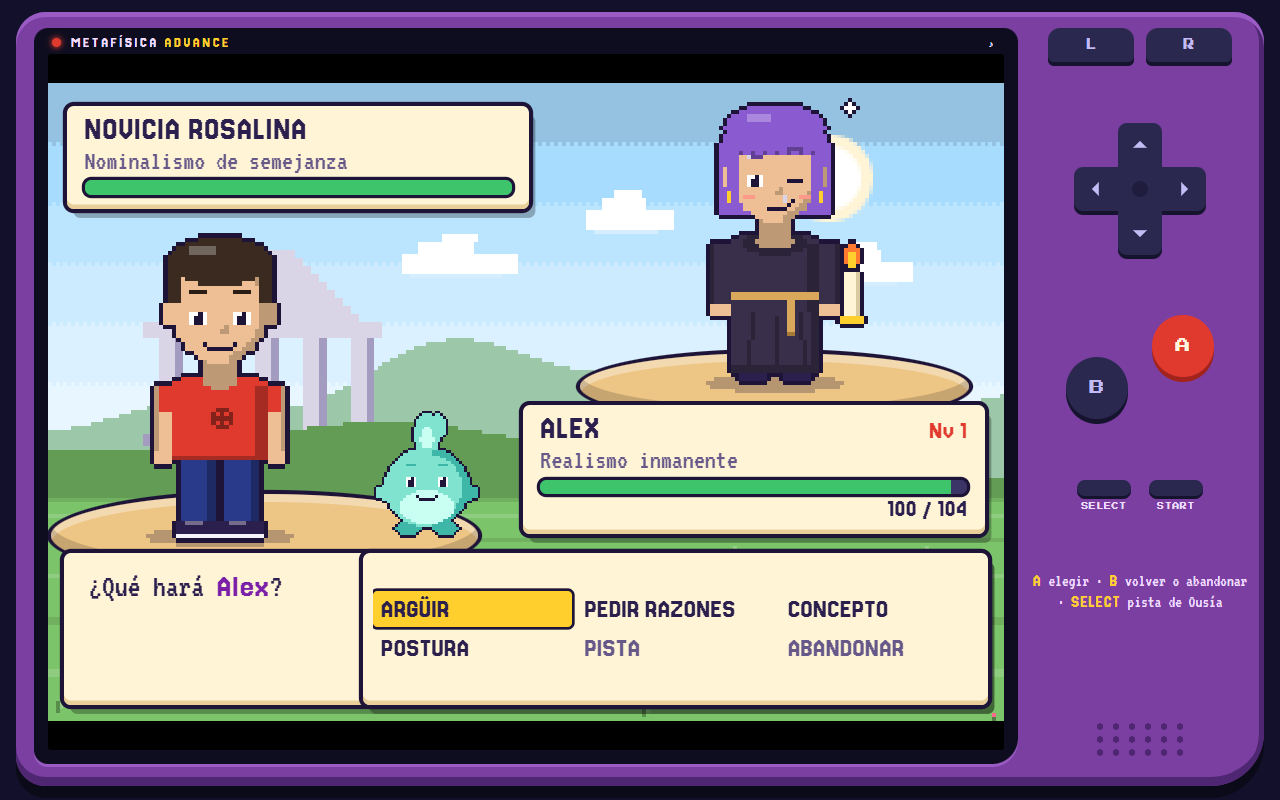
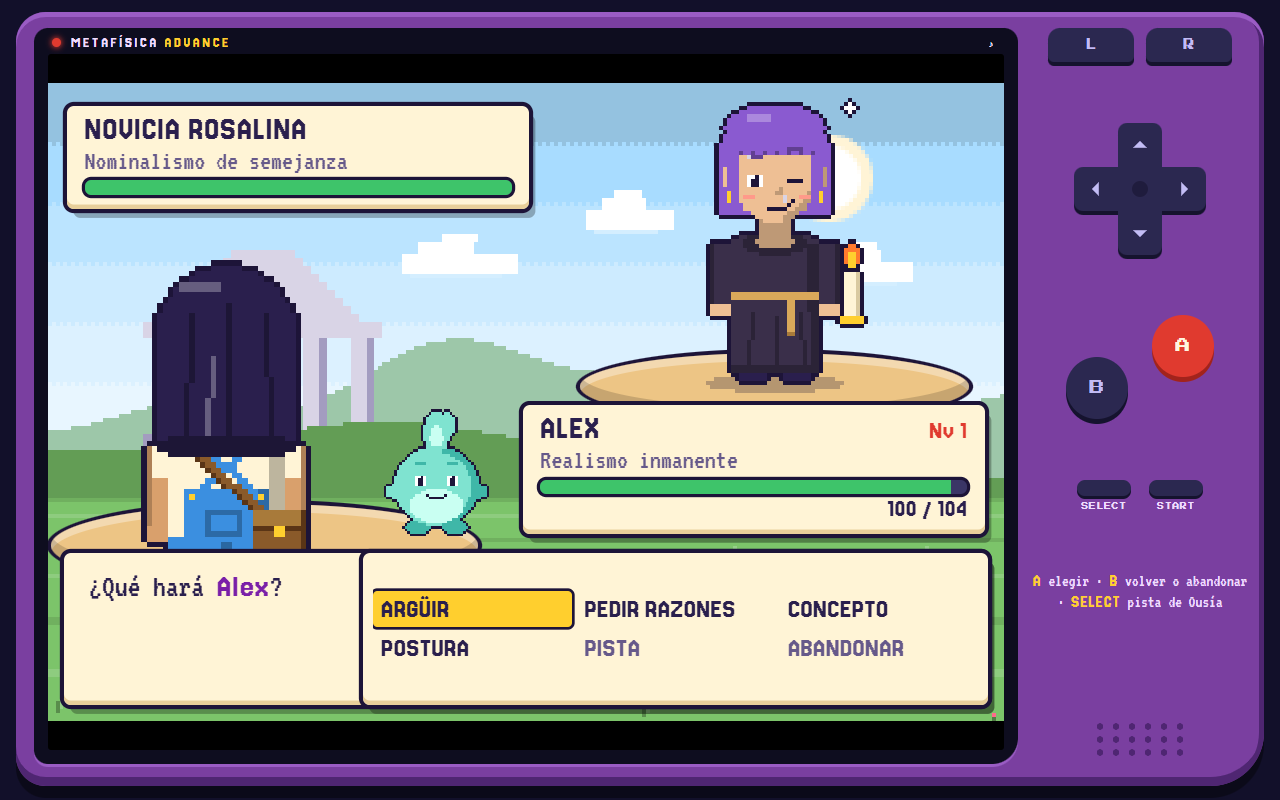
En las disputas, quien juega se ve de espaldas y a medio cuerpo

Changed region(s): [[0.0312, 0.2812, 0.4062, 0.7188]]

diff --git a/index.html b/index.html
@@ -197,12 +197,12 @@ img.idea { flex: none; width: 1.45em; height: 1.45em; }
 .battle .sky { position: absolute; inset: 0; background-color: color-mix(in srgb, var(--kc) 30%, #fff4d6); background-size: cover; background-position: 50% 62%; image-rendering: pixelated; }
 .plat { position: absolute; border-radius: 50%; background: color-mix(in srgb, var(--kc) 62%, #fff); box-shadow: 0 0 0 .13em var(--line), inset 0 -.4em 0 0 rgba(0, 0, 0, .16), inset 0 .25em 0 0 rgba(255, 255, 255, .35); }
 .pf { right: 1.1em; top: 8.45em; width: 12.2em; height: 2.1em; }
-.pm { left: .1em; bottom: 4.5em; width: 13.4em; height: 2.6em; }
+.pm { left: .1em; bottom: 4.2em; width: 13.4em; height: 2.6em; }
 .fig { position: absolute; }
 .fig canvas, .fig img { display: block; width: 100%; height: auto; }
 .foe { right: 3.4em; top: .1em; width: 7.6em; animation: in-r .5s steps(8) both; }
-.me { left: 1.3em; bottom: 5.45em; width: 8.2em; animation: in-l .5s steps(8) both; }
-.ou { left: 9.9em; bottom: 5.7em; width: 4em; animation: in-l .7s steps(8) both, bob 1.2s .7s steps(2) infinite; }
+.me { left: 1.6em; bottom: 5.1em; width: 8em; animation: in-l .5s steps(8) both; }
+.ou { left: 10.2em; bottom: 5.7em; width: 4em; animation: in-l .7s steps(8) both, bob 1.2s .7s steps(2) infinite; }
 .wild .foe { right: 4.6em; top: 1.3em; width: 6em; }
 .wild .fbox .bar { display: none; }
 .wild .foe img { width: 100%; height: auto; animation: hop .7s steps(3) infinite; }
@@ -286,14 +286,14 @@ img.idea { flex: none; width: 1.45em; height: 1.45em; }
 .tall .foe { right: 1em; top: 5.3em; width: 7.4em; }
 .tall .pf { right: .1em; top: 13.4em; width: 10em; height: 1.9em; }
 .tall .wild .foe { right: 2.6em; top: 7.4em; width: 5.6em; }
-.tall .mbox { right: .5em; bottom: 6.85em; width: 13.5em; }
-.tall .me { left: .4em; bottom: 10.9em; width: 7.4em; }
-.tall .ou { left: 7.9em; bottom: 11em; width: 3.4em; }
-.tall .pm { left: 0; bottom: 10.2em; width: 12em; height: 2em; }
+.tall .mbox { right: .5em; bottom: 6.85em; width: 10.6em; }
+.tall .me { left: .5em; bottom: 6.2em; width: 7.8em; }
+.tall .ou { left: 9.4em; bottom: 10.9em; width: 3.4em; }
+.tall .pm { left: 0; bottom: 5.4em; width: 10.4em; height: 2.4em; }
 .tall .shot.to-foe { animation-name: tofoe-t; }
 .tall .shot.to-me { animation-name: tome-t; }
-@keyframes tofoe-t { from { left: 6em; bottom: 15em; transform: scale(.6); } to { left: 13em; bottom: 21em; transform: scale(1.3) rotate(360deg); } }
-@keyframes tome-t { from { left: 13em; bottom: 21em; transform: scale(.6); } to { left: 3.5em; bottom: 15em; transform: scale(1.3) rotate(-360deg); } }
+@keyframes tofoe-t { from { left: 6em; bottom: 13em; transform: scale(.6); } to { left: 13em; bottom: 21em; transform: scale(1.3) rotate(360deg); } }
+@keyframes tome-t { from { left: 13em; bottom: 21em; transform: scale(.6); } to { left: 3.5em; bottom: 11em; transform: scale(1.3) rotate(-360deg); } }
 .tall .vs { flex-direction: column; gap: .1em; background: linear-gradient(172deg, #33479e 0 49%, #1d1438 49% 51%, #b0362f 51% 100%); }
 .tall .vs > div { width: 18em; }
 .tall .vs .pimg { width: 7em; height: 7em; }
@@ -1458,6 +1458,96 @@ function person(p, emo, full) {
   if (p.prop && PROPS[p.prop]) PROPS[p.prop](W, hand[0] + 6 + 2, hand[1]);
   return W.outline(INK).under(30, 73.6, 17, 2.3, SHADOW);
 }
+/* quien juega, en las disputas: medio cuerpo visto de espaldas (48×60), como los entrenadores de Pokémon.
+   La emoción se lee en los brazos y en los signos alrededor de la cabeza */
+function back(p, emo) {
+  emo = emo || 'neutral';
+  const B = px(48, 60), fw = p.fat ? 12.5 : 11, sk = p.sk, skD = shade(sk, -.2), hr = p.h, hrD = shade(hr, -.3), hrL = shade(hr, .28), hs = p.hs;
+  const cl = p.cl, clD = shade(cl, -.26), clL = shade(cl, .25), cs = p.cs, inn = p.inn || '#3ab0a0', tie = p.tie || '#e03a2f';
+  const pn = cs === 'overalls' ? cl : cs === 'suit' && !p.pn ? shade(cl, -.2) : p.pn || '#3a3566', top = cs === 'overalls' ? inn : cl, topD = shade(top, -.26);
+  const low = cs === 'toga' || cs === 'robe' || cs === 'dress' || cs === 'goth' ? cl : pn;
+  const upR = emo === 'alegre' || emo === 'sorpresa', upL = emo === 'sorpresa';
+  if (cs === 'cape') B.r(8, 38, 32, 22, p.inn || '#ffcf2e');
+  /* cadera, torso y cuello */
+  B.r(13, 55, 22, 5, low).r(32, 55, 3, 5, shade(low, -.28)).r(23, 57, 2, 3, shade(low, -.28));
+  B.r(13, 38, 22, 18, top).r(15, 37, 18, 1, top).r(32, 39, 3, 17, topD);
+  B.r(20, 31, 8, 7, sk).r(26, 31, 2, 7, skD);
+  switch (cs) {
+    case 'overalls': B.r(16, 47, 16, 9, cl).r(30, 47, 2, 9, clD).l(17, 37, 28, 47, cl).l(18, 37, 29, 47, cl).l(30, 37, 19, 47, cl).l(29, 37, 18, 47, cl).p(17, 48, '#ffcf2e').p(30, 48, '#ffcf2e').r(20, 51, 7, 5, clD).r(21, 52, 5, 3, cl).r(19, 37, 10, 1, topD); break;
+    case 'hoodie': B.e(24, 41.5, 9.5, 5.5, clD).e(24, 40.5, 8, 4.2, cl).e(24, 39, 5, 2, clD).e(21, 39.5, 2, 1, clL).r(13, 54, 22, 2, clD); break;
+    case 'dress': B.e(24, 38, 5.5, 2.2, sk).l(24, 40, 24, 49, clD).r(13, 50, 22, 2, inn).r(19, 48, 4, 6, inn).r(25, 48, 4, 6, inn).r(23, 50, 2, 2, shade(inn, -.3)).r(19, 53, 4, 1, shade(inn, -.3)).r(25, 53, 4, 1, shade(inn, -.3)); break;
+    case 'goth': B.e(24, 38, 5.5, 2.2, sk).r(13, 50, 22, 1, inn); for (let y = 40; y < 50; y += 2) B.p(23, y, inn).p(25, y + 1, inn); break;
+    case 'track': B.r(19, 35, 10, 3, clD).r(13, 42, 22, 1, '#ffffff').r(13, 54, 22, 2, clD).r(18, 46, 12, 1, clD); break;
+    case 'cape': { const c = p.inn || '#ffcf2e', cD = shade(c, -.25); B.r(11, 38, 26, 22, c).r(17, 36, 14, 3, cD).l(17, 41, 16, 59, cD).l(24, 41, 24, 59, cD).l(31, 41, 32, 59, cD).r(35, 39, 2, 21, cD); break; }
+    case 'suit': case 'coat': case 'lab': B.r(18, 35, 12, 3, clD).l(24, 39, 24, 55, clD).r(13, 55, 22, 1, clD); if (cs !== 'suit') B.r(13, 55, 22, 5, cl).r(23, 50, 2, 10, clD); break;
+    case 'toga': B.l(13, 52, 33, 38, clD).l(13, 53, 34, 39, clD).l(15, 55, 34, 42, clL).l(18, 59, 34, 47, clD); break;
+    case 'robe': B.e(24, 39.5, 8, 4, clD).e(24, 39, 6.5, 2.8, cl).r(13, 51, 22, 2, '#d9a85a'); break;
+    case 'punk': [14, 16, 31, 33].forEach(x => B.p(x, 38, '#d9d4e6').p(x, 40, '#d9d4e6')); B.r(18, 35, 12, 3, clD).r(13, 54, 22, 2, '#0e0d1f'); bits(B, ICONS.bone, 22, 43, '#f4f4fa'); break;
+    case 'sailor': for (let y = 46; y < 56; y += 3) B.r(13, y, 22, 1, '#22386a'); B.r(16, 36, 16, 8, '#22386a').r(17, 42, 14, 1, '#ffffff'); break;
+    case 'apron': B.r(19, 37, 10, 1, topD).l(18, 38, 23, 50, inn).l(30, 38, 25, 50, inn).r(13, 50, 22, 1, inn).r(21, 49, 3, 3, inn).r(25, 49, 3, 3, inn).l(22, 52, 21, 57, inn).l(26, 52, 27, 57, inn); break;
+    default: B.r(19, 37, 10, 1, topD).r(13, 55, 22, 1, clD).l(24, 40, 24, 46, clD);
+  }
+  /* brazos */
+  const short = cs === 'tee' || cs === 'sailor' || cs === 'apron' || cs === 'overalls' || cs === 'toga' || cs === 'dress', wide = cs === 'robe' ? 1 : 0;
+  const arm = (s, up) => {
+    const x = s < 0 ? 9 - wide : 35, w2 = 4 + wide;
+    if (!up) {
+      for (let i = 0; i < 15; i++) B.r(x, 39 + i, w2, 1, short && i > 5 ? sk : top);
+      B.r(s < 0 ? x : x + w2 - 1, 39, 1, 15, short ? skD : topD).r(x, 54, w2, 3, sk);
+      if (cs === 'track') B.r(s < 0 ? x : x + w2 - 1, 39, 1, 15, '#ffffff');
+      if (cs === 'coat' || cs === 'suit') B.r(x, 52, w2, 2, '#ffffff');
+      return;
+    }
+    for (let i = 0; i < 13; i++) B.r(x + s * Math.round(i * .32), 41 - i, w2, 2, short && i >= 6 ? sk : top);
+    B.r(x + s * 4, 26, w2, 3, sk);
+  };
+  arm(-1, upL); arm(1, upR);
+  /* el morral de las cartas, en bandolera */
+  if (cs !== 'cape') B.l(15, 38, 31, 53, '#5a3516').l(16, 38, 32, 53, '#8a5a2a').l(17, 38, 33, 53, '#8a5a2a');
+  B.r(29, 51, 10, 9, '#8a5a2a').r(29, 51, 10, 4, '#a87a3a').r(29, 54, 10, 1, '#5a3516').r(33, 54, 2, 2, '#ffcf2e').r(38, 51, 1, 9, '#5a3516');
+  /* cabeza: nuca, orejas y pelo */
+  const lft = Math.floor(24 - fw), wd2 = Math.round(2 * fw);
+  B.e(24 - fw - .4, 22.5, 2, 3, sk).e(24 + fw + .4, 22.5, 2, 3, skD);
+  B.e(24, 21, fw, 13, sk);
+  B.swap(sk, skD, (x, y) => { const dx = (x + .5 - 24) / fw, dy = (y + .5 - 21) / 13; return dx * dx + dy * dy <= 1 && dx > .2 && dx * dx + dy * dy > .72; });
+  if (p.g || has(p, 'shades')) B.r(lft - 2, 21, 3, 1, INK).r(lft + wd2 - 1, 21, 3, 1, INK);
+  const cap = () => B.e(24, 17.5, fw + 1, 12.5, hr).e(19, 9, 3.5, 1.3, hrL).p(25, 11, hrD).p(26, 12, hrD).p(24, 12, hrD);
+  const fringe = () => { for (let i = -3; i <= 3; i++) B.l(24 + i * 3, 24, 24 + i * 2.7, 29 - Math.abs(i) * .5, hrD); };
+  switch (hs) {
+    case 'long': B.e(24, 20, fw + 2.5, 15, hr).r(lft - 2, 20, wd2 + 4, 19, hr).e(24, 39, fw + 2.5, 2.5, hrD).e(19, 9, 4, 1.5, hrL).l(17, 14, 16, 38, hrD).l(24, 12, 24, 39, hrD).l(31, 14, 32, 38, hrD).l(21, 22, 20, 36, hrL); break;
+    case 'afro': B.e(24, 15.5, fw + 7.5, 15, hr); for (let i = 0; i < 12; i++) B.p(7 + i * 3, 5 + (i * 7) % 11, hrL).p(9 + i * 3, 13 + (i * 5) % 13, hrD).p(8 + i * 3, 22 + (i * 3) % 6, hrD); break;
+    case 'twin': cap(); B.l(24, 5, 24, 29, hrD); [-1, 1].forEach(s => { B.e(24 + s * (fw + 4.5), 27, 3.6, 9, hr).e(24 + s * (fw + 4.5), 34, 2.4, 3, hrD).r(24 + s * (fw + 3) - 1, 17, 3, 3, tie); }); break;
+    case 'pony': cap(); B.e(24, 30, 3.4, 11, hr).e(24, 39, 2.2, 3, hrD).l(23, 22, 23, 38, hrL).r(22, 18, 5, 3, p.tie || '#ffcf2e'); break;
+    case 'bun': cap(); fringe(); B.e(24, 9, 5.5, 5, hr).e(22.5, 7.5, 2, 1.5, hrL).e(24, 13, 5, 1, hrD); break;
+    case 'bob': B.e(24, 18, fw + 3, 13.5, hr).r(lft - 3, 18, wd2 + 6, 15, hr).r(lft - 3, 32, wd2 + 6, 1, hrD).e(19, 9, 4, 1.5, hrL); for (let x = 13; x < 36; x += 4) B.l(x, 20, x, 31, hrD); break;
+    case 'dreads': cap(); for (let i = -4; i <= 4; i++) { const x = 24 + i * 3.3; B.r(x - 1, 12, 3, 30 - Math.abs(i) * 2, hr); for (let y = 16; y < 40 - Math.abs(i) * 2; y += 4) B.r(x - 1, y, 3, 1, hrD); } break;
+    case 'mohawk': B.e(24, 13, fw + .3, 6, shade(sk, -.1)); for (let i = 0; i < 9; i++) B.r(21 - (i % 2), i * 3, 6 + (i % 2) * 2, 4, hr); B.r(22, 0, 1, 27, hrL); break;
+    case 'bald': for (let y = 18; y < 30; y++) for (let x = 10; x < 38; x++) { const dx = (x + .5 - 24) / fw, dy = (y + .5 - 21) / 13; if (dx * dx + dy * dy <= 1.05) B.p(x, y, hr); } B.e(21, 11, 3, 1.2, shade(sk, .3)); break;
+    case 'wig': B.e(24, 18, fw + 4, 14, hr).e(19, 8, 4, 1.5, hrL); [16, 22, 28].forEach(y => { for (let x = 12; x < 37; x += 6) B.e(x + (y % 4), y, 2.6, 2, hrD).e(x + (y % 4), y - .6, 2, 1.2, hr); }); B.r(22, 30, 5, 2, '#1d1438').e(24, 35, 2.4, 5, hr); break;
+    case 'wild': B.e(24, 17, fw + 5, 13.5, hr); for (let i = 0; i < 7; i++) B.e(8 + i * 5.4, 6 + (i % 2) * 2 + Math.abs(i - 3), 3, 4, hr); for (let i = -3; i <= 3; i++) B.l(24 + i * 4, 12, 24 + i * 5, 27, hrD); break;
+    case 'curly': cap(); for (let j = 0; j < 4; j++) for (let i = -3; i <= 3; i++) B.e(24 + i * 3.7 + (j % 2) * 1.8, 9 + j * 5.5 + Math.abs(i), 3.2, 3.2, hr).p(24 + i * 3.7 + (j % 2) * 1.8, 8 + j * 5.5 + Math.abs(i), hrL); break;
+    case 'spiky': cap(); fringe(); for (let i = -3; i <= 3; i++) { const x = 24 + i * 3.6, t = 2 - (i % 2 ? 0 : 3) + Math.abs(i); B.r(x - 1.5, t + 3, 3, 6, hr).r(x - 1, t + 1, 2, 3, hr).p(x - .5, t, hr).p(x - 1.5, t + 3, hrL); } break;
+    case 'hat': {
+      cap(); fringe();
+      const hc = p.hat || HATC[p.hatk] || '#3a3566', hcD = shade(hc, -.25), hk = p.hatk;
+      if (hk === 'cap') B.e(24, 9.5, fw + 1.5, 7.5, hc).r(lft - 1, 14, wd2 + 2, 3, hcD).e(24, 16, 3.5, 2.5, hr).r(20, 17, 8, 1, hcD).e(19, 6, 3, 1.4, shade(hc, .4)).r(23, 2, 2, 2, hcD).r(lft + wd2 - 1, 11, 6, 2, hcD);
+      else if (hk === 'beanie') B.e(24, 8.5, fw + 1.5, 7.5, hc).r(lft - 1, 11, wd2 + 2, 4, hcD).e(24, 1.2, 2.8, 2.4, '#ffffff');
+      else if (hk === 'helmet') B.e(24, 9.5, fw + 2, 8.5, hc).r(lft - 3, 16, wd2 + 6, 2, hcD).r(23, 1, 2, 15, shade(hc, .4));
+      else if (hk === 'sailor') B.r(lft, 4, wd2, 6, hc).r(lft - 1, 9, wd2 + 2, 3, '#22386a').r(lft, 4, wd2, 1, '#ffffff').l(23, 12, 21, 18, '#22386a').l(25, 12, 27, 18, '#22386a');
+      else if (hk === 'tricorn') B.e(24, 7, fw - 2, 5, hc).r(lft - 5, 9, wd2 + 10, 3, hc).r(lft - 5, 9, wd2 + 10, 1, '#ffcf2e').p(24, 12, hc).p(24, 13, hc);
+      else B.r(lft + 1, 1, wd2 - 2, 9, hc).r(lft - 4, 10, wd2 + 8, 2, hc).r(lft + 1, 7, wd2 - 2, 2, shade(hc, .35));
+      break;
+    }
+    case 'part': cap(); fringe(); B.l(19, 6, 17, 15, hrD); break;
+    default: cap(); fringe();
+  }
+  if (p.laurel) for (let i = -4; i <= 4; i++) B.r(24 + i * 2.6 - 1, 13 + Math.abs(i) * .9, 2, 2, i % 2 ? '#3f9f4f' : '#6fcf5a');
+  if (has(p, 'band')) B.r(lft, 13, wd2, 2, tie).r(22, 15, 2, 5, tie).r(25, 15, 2, 4, tie);
+  if (has(p, 'phones')) { for (let a = 200; a <= 340; a += 4) B.r(24 + Math.cos(a / 57.3) * (fw + 2.5), 15 + Math.sin(a / 57.3) * 11.5, 2, 2, '#3a3566'); B.r(lft - 4, 17, 4, 9, '#e03a2f').r(lft + wd2, 17, 4, 9, '#e03a2f'); }
+  if (has(p, 'scarf')) B.r(17, 33, 14, 5, tie).r(17, 33, 14, 1, shade(tie, .35)).r(19, 37, 5, 10, tie).r(19, 41, 5, 1, shade(tie, -.3));
+  marks(B, emo);
+  return B.outline(INK);
+}
 function ousia(emo) {
   emo = emo || 'neutral';
   const B = px(48, 48), c = '#7fe3d0', cD = '#3fb7a8', cL = '#c9fff2';
@@ -1486,6 +1576,14 @@ function drawFigure(canvas, key, p, emo) {
   if (!pcache[k]) pcache[k] = person(p, emo, true).canvas();
   const ctx = canvas.getContext('2d');
   ctx.clearRect(0, 0, 60, 76);
+  ctx.drawImage(pcache[k], 0, 0);
+}
+/* dibuja en un <canvas> de 48×60 a quien juega, de espaldas y a medio cuerpo */
+function drawBack(canvas, key, p, emo) {
+  const k = 'B' + key + '|' + emo;
+  if (!pcache[k]) pcache[k] = back(p, emo).canvas();
+  const ctx = canvas.getContext('2d');
+  ctx.clearRect(0, 0, 48, 60);
   ctx.drawImage(pcache[k], 0, 0);
 }
 
@@ -1553,7 +1651,7 @@ function idea(id, col, type) {
   return (icache[id] = B.outline(INK).canvas());
 }
 
-return { INK, cv, px, shade, rng, hash, THEMES, ICONS, tileset, prop, building, sheet, ousiaSheet, drawPortrait, drawFigure, backdrop, idea, EMOS, ousia, person };
+return { INK, cv, px, shade, rng, hash, THEMES, ICONS, tileset, prop, building, sheet, ousiaSheet, drawPortrait, drawFigure, drawBack, backdrop, idea, EMOS, ousia, person };
 })();
 
 /* Metafísica Advance — contenido: problemas, cartas (teorías, argumentos, conceptos), coherencia del sistema,
@@ -2728,7 +2826,8 @@ function anyKey(min) {
 }
 const chOf = who => (who === 'yo' ? Object.assign({}, CH['av' + S.av], { n: S.name.toUpperCase() }) : CH[who]);
 function setPor(canvas, who, emo) { const key = who === 'yo' ? 'av' + S.av : who; G.drawPortrait(canvas, key, CH[key].p, emo || 'neutral'); }
-function setFig(canvas, who, emo) { const key = who === 'yo' ? 'av' + S.av : who; G.drawFigure(canvas, key, CH[key].p, emo || 'neutral'); }
+/* figura de las disputas: el rival de cuerpo entero; quien juega, de espaldas y a medio cuerpo */
+function setFig(canvas, who, emo) { const key = who === 'yo' ? 'av' + S.av : who; (who === 'yo' ? G.drawBack : G.drawFigure)(canvas, key, CH[key].p, emo || 'neutral'); }
 async function say(who, emo, text) {
   const c = who ? chOf(who) : null;
   dlg.hidden = false; dlg.classList.toggle('nar', !c);
@@ -3127,7 +3226,7 @@ async function duel(n) {
 function scene(kc, wildId) {
   const root = el('div', 'battle', '<div class="sky"></div><div class="plat pf"></div><div class="plat pm"></div>' +
     '<div class="fig foe">' + (wildId ? ideaImg(wildId) : '<canvas width="60" height="76"></canvas>') + '</div>' +
-    '<div class="fig me"><canvas width="60" height="76"></canvas></div><div class="fig ou"><canvas width="48" height="48"></canvas></div>' +
+    '<div class="fig me"><canvas width="48" height="60"></canvas></div><div class="fig ou"><canvas width="48" height="48"></canvas></div>' +
     '<div class="bx fbox"><div class="r1"><b></b><i></i></div><div class="th"></div><div class="bar"><i></i></div></div>' +
     '<div class="bx mbox"><div class="r1"><b></b><i></i></div><div class="th"></div><div class="bar"><i></i></div><div class="hp"></div></div>' +
     '<div class="bmsg"><div class="tx"></div><i class="nx" hidden>▼</i></div>');

diff --git a/sw.js b/sw.js
@@ -1,6 +1,6 @@
 /* Metafísica Advance — service worker: deja la app guardada en el teléfono para jugar sin conexión. */
 const PREFIX = 'metafisica-advance-';
-const CACHE = PREFIX + 'ad29b1927c';
+const CACHE = PREFIX + 'af03c92171';
 const SHELL = ['./', 'index.html', 'manifest.webmanifest', 'icons/icon-192.png', 'icons/icon-512.png', 'icons/maskable-512.png', 'icons/apple-touch-icon.png'];
 self.addEventListener('install', e => {
   e.waitUntil(caches.open(CACHE).then(c => c.addAll(SHELL)).then(() => self.skipWaiting()));
